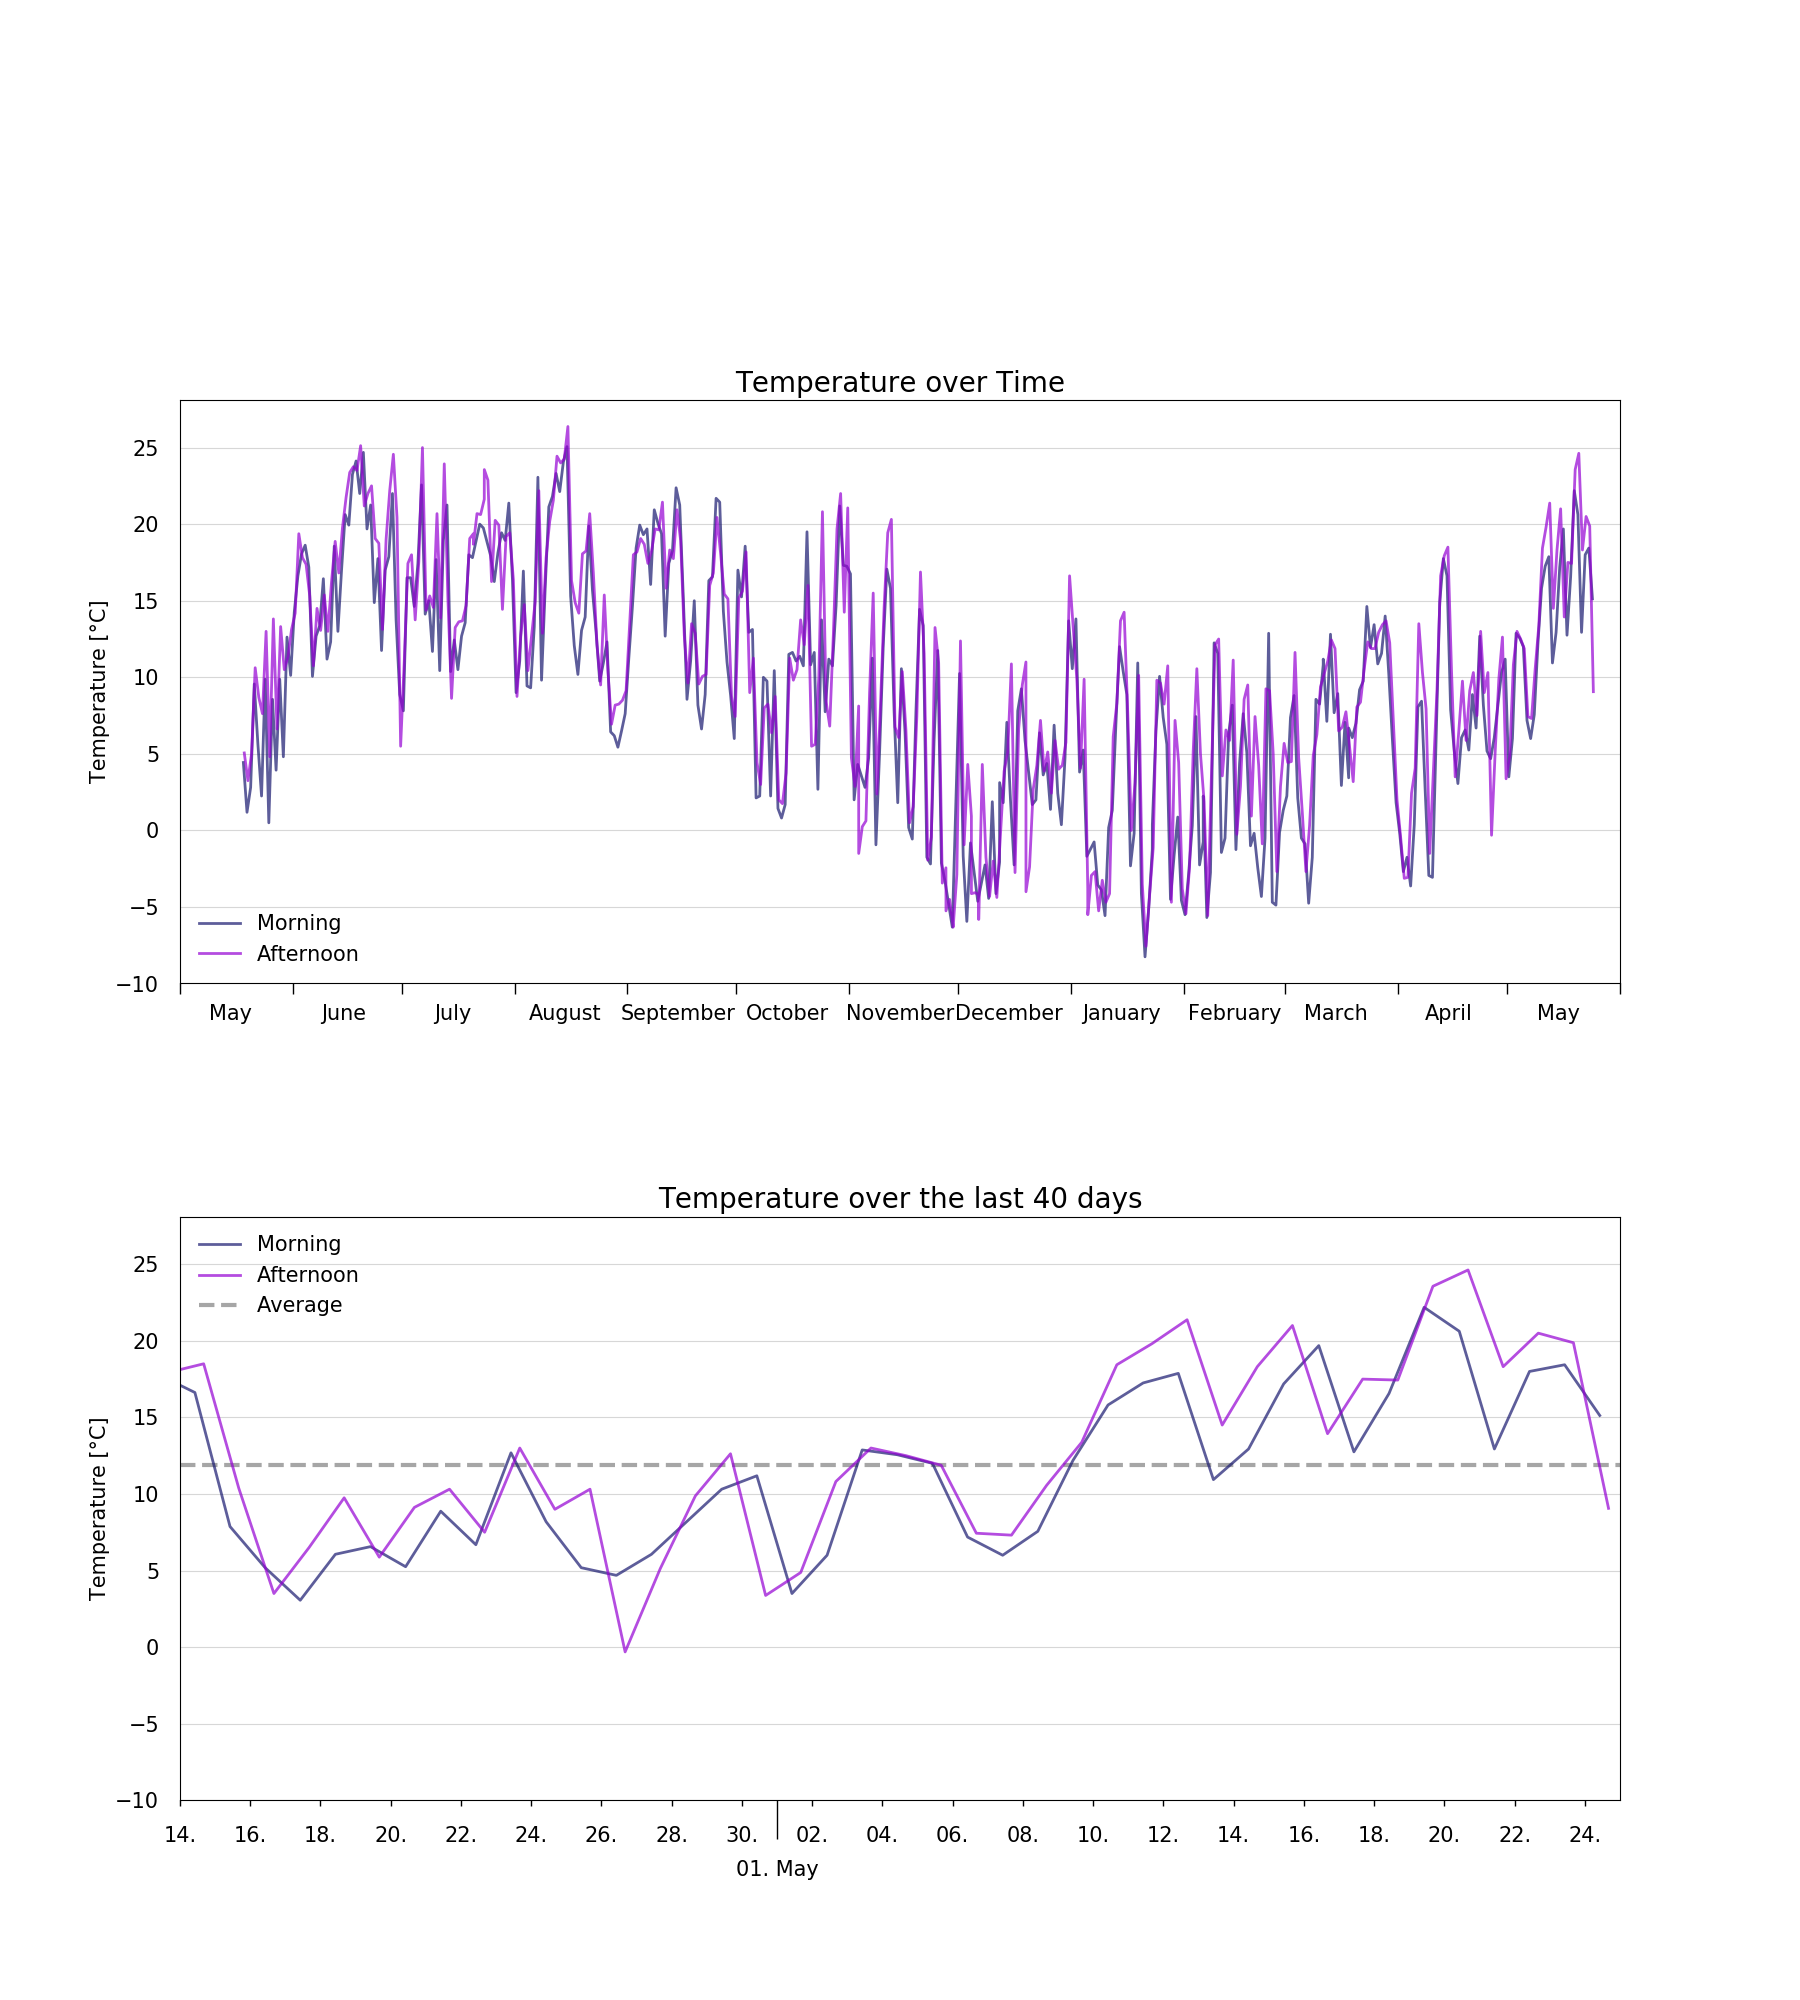
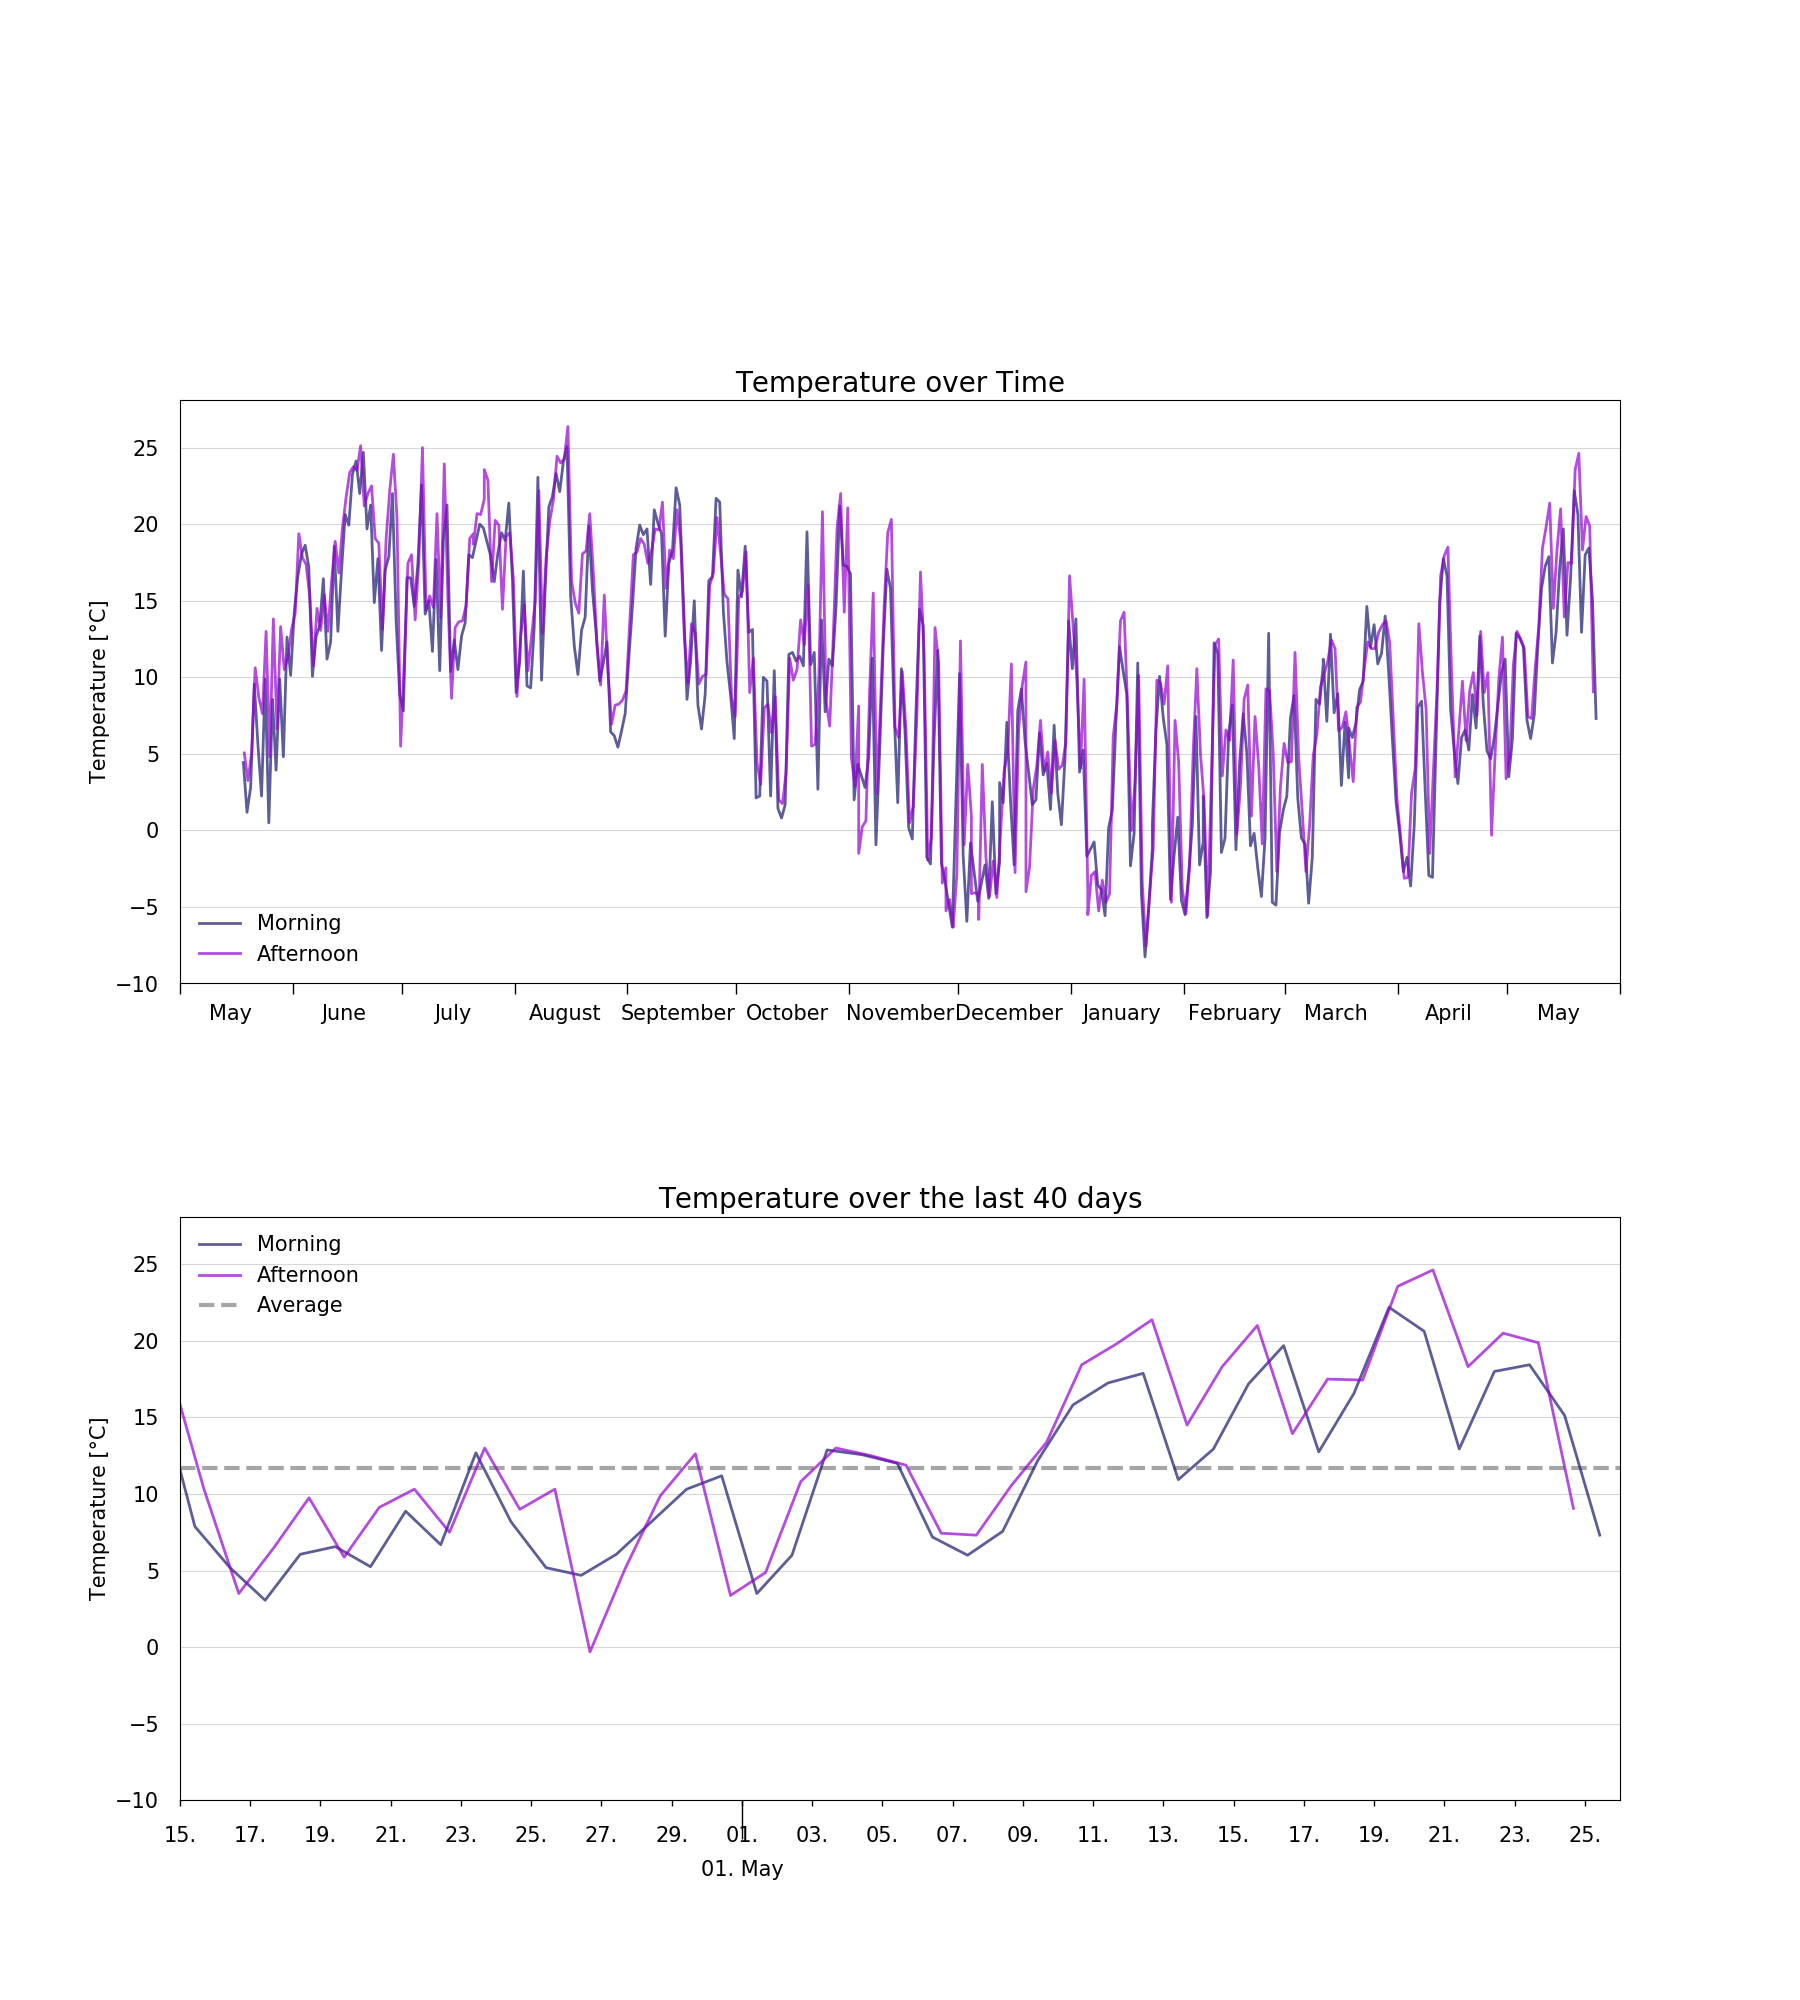
I'm a bot beep boop

Changed region(s): [[0.0933, 0.62, 0.9022, 0.806], [0.4044, 0.899, 0.4356, 0.961]]

diff --git a/resources/huette.md b/resources/huette.md
@@ -6,13 +6,13 @@ image: '/assets/img/'
 description: 'Live image from the Austrian alps'
 twitter_text: ' '
 ---
-## Latest image from 24 May 2022 at 16:10
+## Latest image from 25 May 2022 at 10:10
 <div class="huette">
   <div class="huette-image">
     <img src="{{ "/assets/img/huette.jpg" | prepend: site.baseurl }}">
   </div>
   <div class="huette-text">
-        <h2>Current Temperature: 9.062°C</h2>
+        <h2>Current Temperature: 7.312°C</h2>
         <p>A solar powered raspberry pi left alone in the wild is sending daily images and temperature data to this website. It should give you an impression about the current weather in the "Brixental".</p>
 
   </div>

diff --git a/rpi-script/huette.md b/rpi-script/huette.md
@@ -6,13 +6,13 @@ image: '/assets/img/'
 description: 'Live image from the Austrian alps'
 twitter_text: ' '
 ---
-## Latest image from 24 May 2022 at 16:10
+## Latest image from 25 May 2022 at 10:10
 <div class="huette">
   <div class="huette-image">
     <img src="{{ "/assets/img/huette.jpg" | prepend: site.baseurl }}">
   </div>
   <div class="huette-text">
-        <h2>Current Temperature: 9.062°C</h2>
+        <h2>Current Temperature: 7.312°C</h2>
         <p>A solar powered raspberry pi left alone in the wild is sending daily images and temperature data to this website. It should give you an impression about the current weather in the "Brixental".</p>
 
   </div>
